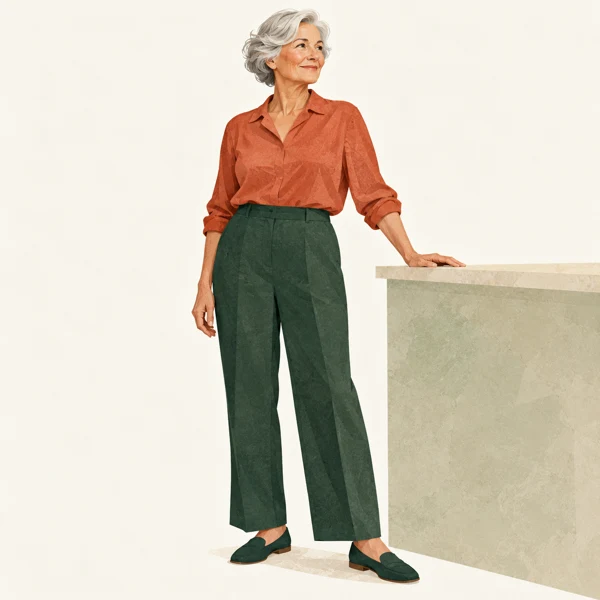
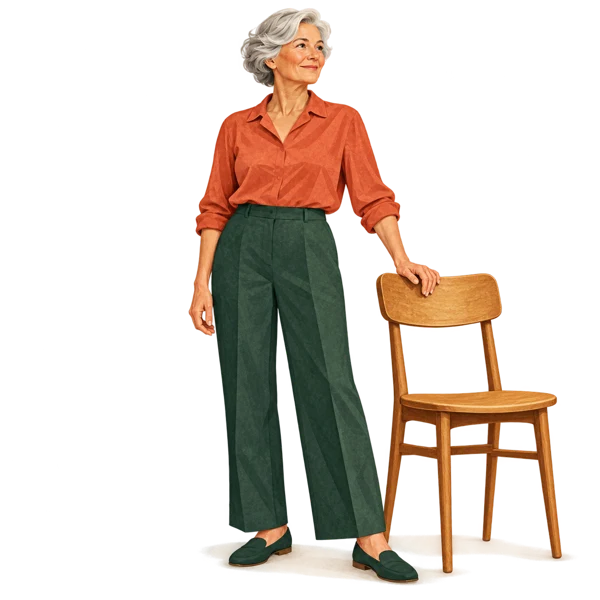
Polish the reading experience and use an age-inclusive title

diff --git a/tests/browser/publication.spec.ts b/tests/browser/publication.spec.ts
@@ -59,7 +59,7 @@ test('search fetch failure leaves readable articles and recovers on retry', asyn
   await expect(page.locator('[data-search-item]:visible')).toHaveCount(1);
 });
 
-test('skip link, recommendation anchors and evidence controls work', async ({page}) => {
+test('overview, references and return control work with accessible reading', async ({page}, testInfo) => {
   await page.goto('/articles/exercise-foundations-after-65/');
   await page.keyboard.press('Tab');
   await expect(page.getByRole('link', {name: 'Skip to content'})).toBeFocused();
@@ -69,17 +69,21 @@ test('skip link, recommendation anchors and evidence controls work', async ({pag
   await expect(page.locator('.idea-overview>li')).toHaveCount(3);
   await expect(page.locator('.overview-safety')).toBeVisible();
   await page.locator('.full-guide>summary').click();
-  await page.getByRole('navigation', {name: 'Recommendations'}).getByRole('link').nth(1).click();
-  await expect(page).toHaveURL(/#strength$/);
+  await expect(page.getByRole('navigation', {name: 'Recommendations'})).toHaveCount(0);
   const strength = page.locator('#strength');
-  await strength.locator('summary').click();
-  await expect(strength.locator('details')).toHaveAttribute('open', '');
-  await expect(strength.locator('.claim a').first()).toHaveAttribute('href', /^https:\/\//);
-  await expect(strength.locator('details')).toContainText('keep the movement controlled');
+  await expect(strength.getByRole('heading')).toHaveText('Build strength');
+  await expect(strength).toContainText('keep the movement controlled');
+  await expect(strength.locator('details')).toHaveCount(0);
+  await page.screenshot({path: testInfo.outputPath('exercise-expanded.png'), fullPage: true});
   await strength.locator('.footnote').first().click();
   await expect(page).toHaveURL(/#reference-cdc-overview$/);
   await page.locator('#reference-cdc-overview .reference-returns a').first().click();
   await expect(page).toHaveURL(/#cite-strength-cdc-overview$/);
+  await page.locator('.evidence-notes>summary').click();
+  await expect(page.locator('.evidence-notes')).toContainText('consensus based');
+  await page.getByRole('link', {name:'Back to the three ideas'}).click();
+  await expect(page.locator('.full-guide')).not.toHaveAttribute('open', '');
+  await expect(page.locator('.full-guide>summary')).toBeFocused();
   await page.goto('/articles/exercise-foundations-after-65/#balance');
   await expect(page.locator('.full-guide')).toHaveAttribute('open', '');
   await expect(page.locator('#balance')).toBeVisible();
@@ -91,11 +95,13 @@ test('core reading and category navigation work without JavaScript', async ({bro
   await page.goto('/library/');
   await expect(page.locator('[data-search-item]')).toHaveCount(3);
   await page.locator('.topic-links').getByRole('link', {name: 'Health', exact: true}).click();
-  await page.getByRole('link', {name: 'Stay strong, steady and active after 65', exact: true}).click();
+  await page.getByRole('link', {name: 'Stay strong, steady and active as you get older', exact: true}).click();
   await expect(page.locator('.recommendation')).toHaveCount(3);
   await page.locator('.full-guide>summary').click();
-  await page.locator('.recommendation summary').first().click();
-  await expect(page.locator('.recommendation details').first()).toHaveAttribute('open', '');
+  await expect(page.locator('#strength')).toBeVisible();
+  await expect(page.locator('#strength')).toContainText('keep the movement controlled');
+  await page.getByRole('link', {name:'Back to the three ideas'}).click();
+  await expect(page.locator('.idea-overview')).toBeVisible();
   await context.close();
 });
 

diff --git a/src/styles/global.css b/src/styles/global.css
@@ -57,3 +57,23 @@
 .compact-article .share-row>a{display:inline-flex;align-items:center;min-height:44px}
 @media(max-width:720px){.compact-article{padding-block:28px}.compact-article h1{font-size:36px}.idea-overview li{gap:12px;padding:14px 0}.idea-overview img{width:84px;height:96px;flex-basis:84px}.idea-overview h2{font-size:25px}.idea-overview p{font-size:19px}.compact-article .recommendation h2{font-size:29px}.compact-article .article-intro{font-size:20px}}
 @media(max-width:370px){.compact-article h1{font-size:32px}.idea-overview img{width:70px;flex-basis:70px;height:90px}.idea-overview h2{font-size:23px}}
+
+/* Reading polish: a single guide, quiet secondary actions and compact citations. */
+@media(min-width:721px){.idea-overview img{width:144px;height:144px;flex-basis:144px}}
+.compact-article .button-secondary{background:transparent;color:var(--ink);border:1px solid #819388;padding:10px 20px}
+.compact-article .button-secondary:hover{background:#e8ede2;color:var(--ink)}
+.compact-article .supporting-detail{font-size:18px;color:#40554a}
+.compact-article .footnote{display:inline;position:relative;min-height:0;min-width:0;padding:0 2px;margin:0 2px;font-size:15px;line-height:0;vertical-align:super}
+.compact-article .footnote::after{content:"";position:absolute;inset:-14px -3px}
+.compact-article .footnote:target{outline:2px solid #97472e;outline-offset:3px;border-radius:2px}
+.reference-returns{margin-top:8px}
+.evidence-notes{border-top:1px solid var(--line);padding-top:12px;margin:24px 0;font-size:17px}
+.compact-article .evidence-notes>summary{font-size:17px}
+.verification-note{padding:14px 0;border-top:1px solid var(--line)}
+.verification-note h3{font:normal 18px/1.5 Arial,sans-serif;margin:8px 0}
+.verification-note p{margin:8px 0}
+.return-overview{display:inline-flex;align-items:center;min-height:44px;margin:16px 0;font-size:18px}
+.site-header nav a,.site-footer,.site-footer .fine-print{font-size:15px}
+.preview-banner{font-size:15px}
+@media(max-width:720px){.site-header{flex-wrap:wrap}.site-header nav{gap:18px}.site-header nav a{font-size:15px}.wordmark small{font-size:11px;letter-spacing:0}.site-footer .wordmark{font-size:21px}}
+@media(pointer:coarse){.compact-article .footnote{padding-inline:12px;margin-inline:2px}.compact-article .footnote::after{inset:-14px 0}}
